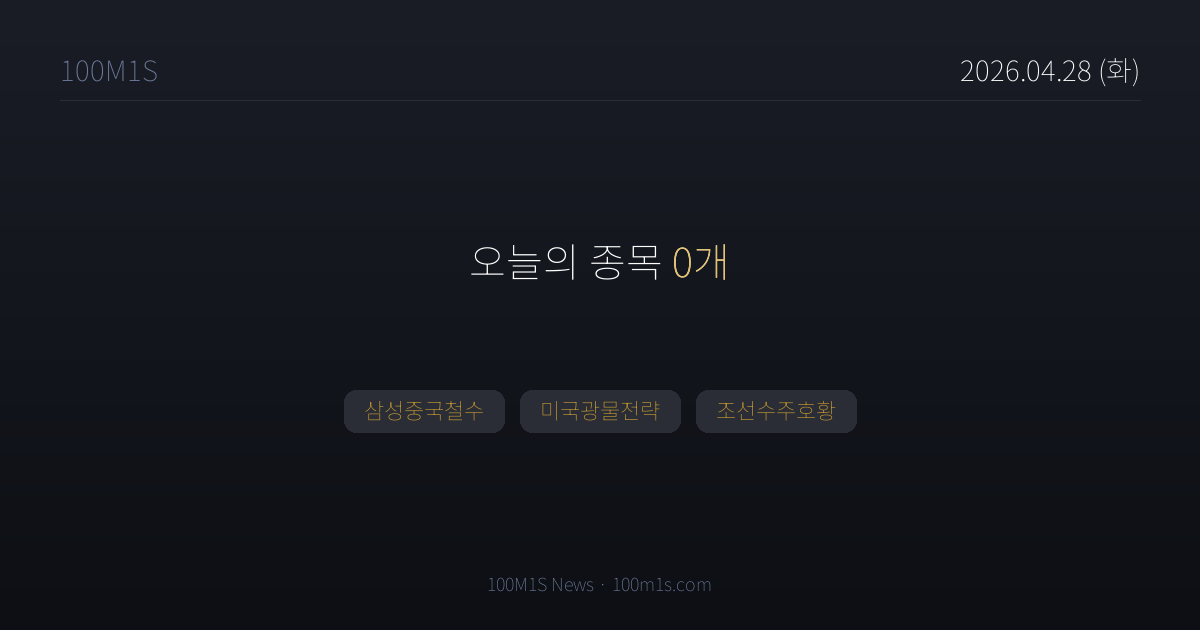
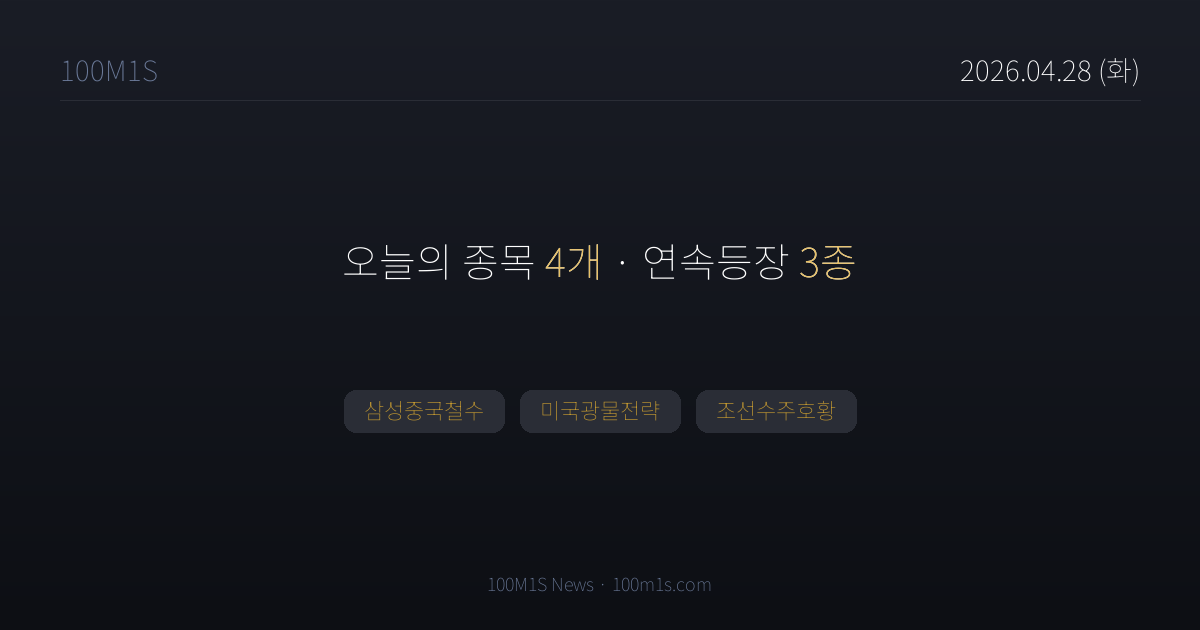
chore(news): 2026-04-28T09:11 pipeline

Changed region(s): [[0.2775, 0.3921, 0.7092, 0.4524]]

diff --git a/news/stock/2026-04-28/322000.html b/news/stock/2026-04-28/322000.html
@@ -1,0 +1,33 @@
+<!DOCTYPE html>
+<html lang="ko">
+<head>
+<meta charset="UTF-8">
+<title>HD현대에너지솔루션 (322000) · 100M1S</title>
+<meta property="og:title" content="HD현대에너지솔루션 (322000) · 100M1S">
+<meta property="og:description" content="반도체 제조업 · 오늘의 주목 종목">
+<meta property="og:image" content="https://100m1s.com/og/news/stock/2026-04-28/322000.png">
+<meta property="og:image:width" content="1200">
+<meta property="og:image:height" content="630">
+<meta property="og:url" content="https://100m1s.com/news/stock/2026-04-28/322000.html">
+<meta property="og:type" content="article">
+<meta name="twitter:card" content="summary_large_image">
+<meta name="twitter:image" content="https://100m1s.com/og/news/stock/2026-04-28/322000.png">
+<meta name="robots" content="noindex">
+<script>
+(function() {
+  var params = new URLSearchParams(location.search);
+  var date = params.get('date') || '2026-04-28';
+  var code = '322000';
+  var defaultName = 'HD현대에너지솔루션';
+  var rawHash = location.hash.replace(/^#/, '');
+  var nameFromHash = decodeURIComponent(rawHash).replace(/^stock-[A-Za-z0-9]+-?/, '');
+  var finalName = nameFromHash || defaultName;
+  var targetHash = '#stock-' + code + (finalName ? '-' + finalName : '');
+  location.replace('/news.html?date=' + encodeURIComponent(date) + targetHash);
+})();
+</script>
+</head>
+<body>
+<p>리다이렉트 중... <a href="/news.html?date=2026-04-28#stock-322000-HD현대에너지솔루션">HD현대에너지솔루션 (322000) 뉴스 보기</a></p>
+</body>
+</html>

diff --git a/news/stock/2026-04-28/058430.html b/news/stock/2026-04-28/058430.html
@@ -1,0 +1,33 @@
+<!DOCTYPE html>
+<html lang="ko">
+<head>
+<meta charset="UTF-8">
+<title>포스코스틸리온 (058430) · 100M1S</title>
+<meta property="og:title" content="포스코스틸리온 (058430) · 100M1S">
+<meta property="og:description" content="1차 철강 제조업 · 오늘의 주목 종목">
+<meta property="og:image" content="https://100m1s.com/og/news/stock/2026-04-28/058430.png">
+<meta property="og:image:width" content="1200">
+<meta property="og:image:height" content="630">
+<meta property="og:url" content="https://100m1s.com/news/stock/2026-04-28/058430.html">
+<meta property="og:type" content="article">
+<meta name="twitter:card" content="summary_large_image">
+<meta name="twitter:image" content="https://100m1s.com/og/news/stock/2026-04-28/058430.png">
+<meta name="robots" content="noindex">
+<script>
+(function() {
+  var params = new URLSearchParams(location.search);
+  var date = params.get('date') || '2026-04-28';
+  var code = '058430';
+  var defaultName = '포스코스틸리온';
+  var rawHash = location.hash.replace(/^#/, '');
+  var nameFromHash = decodeURIComponent(rawHash).replace(/^stock-[A-Za-z0-9]+-?/, '');
+  var finalName = nameFromHash || defaultName;
+  var targetHash = '#stock-' + code + (finalName ? '-' + finalName : '');
+  location.replace('/news.html?date=' + encodeURIComponent(date) + targetHash);
+})();
+</script>
+</head>
+<body>
+<p>리다이렉트 중... <a href="/news.html?date=2026-04-28#stock-058430-포스코스틸리온">포스코스틸리온 (058430) 뉴스 보기</a></p>
+</body>
+</html>

diff --git a/news/stock/2026-04-28/006340.html b/news/stock/2026-04-28/006340.html
@@ -1,0 +1,33 @@
+<!DOCTYPE html>
+<html lang="ko">
+<head>
+<meta charset="UTF-8">
+<title>대원전선 (006340) · 100M1S</title>
+<meta property="og:title" content="대원전선 (006340) · 100M1S">
+<meta property="og:description" content="절연선 및 케이블 제조업 · 오늘의 주목 종목">
+<meta property="og:image" content="https://100m1s.com/og/news/stock/2026-04-28/006340.png">
+<meta property="og:image:width" content="1200">
+<meta property="og:image:height" content="630">
+<meta property="og:url" content="https://100m1s.com/news/stock/2026-04-28/006340.html">
+<meta property="og:type" content="article">
+<meta name="twitter:card" content="summary_large_image">
+<meta name="twitter:image" content="https://100m1s.com/og/news/stock/2026-04-28/006340.png">
+<meta name="robots" content="noindex">
+<script>
+(function() {
+  var params = new URLSearchParams(location.search);
+  var date = params.get('date') || '2026-04-28';
+  var code = '006340';
+  var defaultName = '대원전선';
+  var rawHash = location.hash.replace(/^#/, '');
+  var nameFromHash = decodeURIComponent(rawHash).replace(/^stock-[A-Za-z0-9]+-?/, '');
+  var finalName = nameFromHash || defaultName;
+  var targetHash = '#stock-' + code + (finalName ? '-' + finalName : '');
+  location.replace('/news.html?date=' + encodeURIComponent(date) + targetHash);
+})();
+</script>
+</head>
+<body>
+<p>리다이렉트 중... <a href="/news.html?date=2026-04-28#stock-006340-대원전선">대원전선 (006340) 뉴스 보기</a></p>
+</body>
+</html>

diff --git a/news/stock/2026-04-28/001510.html b/news/stock/2026-04-28/001510.html
@@ -1,0 +1,33 @@
+<!DOCTYPE html>
+<html lang="ko">
+<head>
+<meta charset="UTF-8">
+<title>SK증권 (001510) · 100M1S</title>
+<meta property="og:title" content="SK증권 (001510) · 100M1S">
+<meta property="og:description" content="금융 지원 서비스업 · 오늘의 주목 종목">
+<meta property="og:image" content="https://100m1s.com/og/news/stock/2026-04-28/001510.png">
+<meta property="og:image:width" content="1200">
+<meta property="og:image:height" content="630">
+<meta property="og:url" content="https://100m1s.com/news/stock/2026-04-28/001510.html">
+<meta property="og:type" content="article">
+<meta name="twitter:card" content="summary_large_image">
+<meta name="twitter:image" content="https://100m1s.com/og/news/stock/2026-04-28/001510.png">
+<meta name="robots" content="noindex">
+<script>
+(function() {
+  var params = new URLSearchParams(location.search);
+  var date = params.get('date') || '2026-04-28';
+  var code = '001510';
+  var defaultName = 'SK증권';
+  var rawHash = location.hash.replace(/^#/, '');
+  var nameFromHash = decodeURIComponent(rawHash).replace(/^stock-[A-Za-z0-9]+-?/, '');
+  var finalName = nameFromHash || defaultName;
+  var targetHash = '#stock-' + code + (finalName ? '-' + finalName : '');
+  location.replace('/news.html?date=' + encodeURIComponent(date) + targetHash);
+})();
+</script>
+</head>
+<body>
+<p>리다이렉트 중... <a href="/news.html?date=2026-04-28#stock-001510-SK증권">SK증권 (001510) 뉴스 보기</a></p>
+</body>
+</html>

diff --git a/news/stock/2026-04-28.html b/news/stock/2026-04-28.html
@@ -3,7 +3,7 @@
 <head>
 <meta charset="UTF-8">
 <title>4월 28일 (화) 뉴스 — 100M1S</title>
-<meta property="og:title" content="4월 28일 (화) · 종목 0개">
+<meta property="og:title" content="4월 28일 (화) · 종목 4개">
 <meta property="og:description" content="삼성중국철수, 미국광물전략, 조선수주호황">
 <meta property="og:image" content="https://100m1s.com/og/news/stock/2026-04-28.png">
 <meta property="og:image:width" content="1200">
